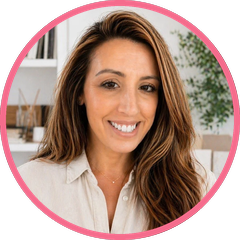
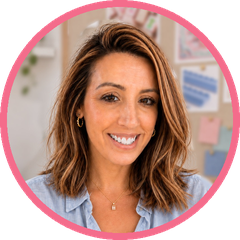
Chambray designer headshot: new site-wide headshot assets; links block points at headshot-chambray.png
Claude-Session: https://claude.ai/code/session_014aKoC1ZMdZPjGkZ9kHhnLk

diff --git a/site/livepatch/pages/about_live.html b/site/livepatch/pages/about_live.html
@@ -34,4 +34,4 @@
 .mmab .sig{font-family:'Caprasimo',Georgia,serif;font-size:1.4em;margin:6px 0 0}
 @media(max-width:700px){.mmab{padding:24px 18px}.mmab .hero{grid-template-columns:1fr;justify-items:center;text-align:center}.mmab .steps,.mmab .cards{grid-template-columns:1fr}}
 </style>
-<div class="mmab"><div class="hero"><div class="photo" style="border:4px solid #fff;box-shadow:0 0 0 3px #c2547a;overflow:hidden"><img src="https://cdn.jsdelivr.net/gh/tiffanybrie/mahjmatchmaker-data@ae30aa8f56dc8d4d827baec760da85ac1f326ac6/assets/links/headshot.png" alt="Tiffany, the designer behind Mahj Matchmaker" style="width:100%;height:100%;object-fit:cover;border-radius:50%;display:block"></div><div><h1>Hi, I&rsquo;m Tiffany.</h1><p class="dek">Designer, creative entrepreneur, and the eye behind Mahj Matchmaker.</p></div></div><section><p>I&rsquo;ve always been drawn to beautiful things. I notice colors, patterns, textures, and the little details—and I love figuring out how they work together. That&rsquo;s been a common thread through years of designing products, building creative businesses, and making my home feel like me.</p><p>So when I started shopping for my first mahjong set, I did what any perfectly reasonable designer would do: I built myself a template to compare all the possibilities.</p><p>Mahjong is an investment, and I wanted to love my whole setup, right down to the tile bag, tote, and shufflers. There was so much beauty to explore, but looking at products on separate websites wasn&rsquo;t helping me decide. I needed to see everything together.</p></section><section><h2>Down the mahj rabbit hole</h2><p>I started swapping tiles, mats, and racks into digital mock-ups, exploring different combinations until I could figure out what felt the most me.</p><p>As it turns out, I&rsquo;m not a one-size-fits-all tile-and-mat girl. I keep my sets out in my home, and just as my home gets seasonal refreshes, so does my mahjong setup. Different colors and styles appeal to me at different times of year. Apparently, even my mahjong table likes a change of clothes.</p></section><section><h2>I&rsquo;ve learned to follow the creative rabbit holes.</h2><p>I&rsquo;ve followed a lot of ideas into places I couldn&rsquo;t have predicted. Over the years, those ideas have become products, brands, and businesses. I&rsquo;ve learned that when the creative juices start flowing, sometimes the best thing I can do is get out of their way and see where they take me.</p><p>Mahj Matchmaker is one chapter in a much longer creative story. If you&rsquo;re curious about the other things my husband, Jeff, and I have built together, you can read <a href="https://emeryandoak.com/" target="_blank" rel="noopener">our story at Emery &amp; Oak</a>.</p><p>My mahjong journey started with that same curiosity—and a shopping project that apparently had bigger plans.</p></section><section><h2>From a Facebook group to a growing match library</h2><p>While browsing mahjong Facebook groups, I noticed how many people were asking the same questions I&rsquo;d been asking myself: "What mat goes with these tiles?" "Which racks would you choose?"</p><p>By then, I&rsquo;d spent so much time exploring collections that I could often remember which mats had the colors someone was looking for. My designer brain had been quietly filing it all away.</p><p>I began sharing mock-ups and helping people compare options. Then I started my own Facebook group, Mahj Matchmaker, and uploaded my combinations into albums organized by tile set. It gave people a place to browse the possibilities without piecing them together from hundreds of comments.</p><p>That group became the first home of my match library. It still exists today, along with those original albums and a community where players share their tables, ask questions, and help each other find what they&rsquo;re looking for.</p><p>And, true to form, I kept creating.</p><p>Eventually, the library needed more room to grow. That brought Mahj Matchmaker here: a website with an expanding collection of curated matches, more ways to explore them, and a home for the ideas that keep coming.</p><p>I didn&rsquo;t set out to build all of this when I started shopping for my first set. But I&rsquo;ve been on enough creative journeys to recognize when an idea is worth following.</p></section><section><h2>Sometimes you need to see it to know.</h2><p>My curated match library is for those of us who crave a visual moodboard before making a decision. Whether you&rsquo;re choosing your first set, finding a mat for tiles you already own, or dreaming up a seasonal refresh, I&rsquo;m here to help you explore the possibilities and narrow things down.</p><p>The goal is to find a combination you love—one that feels like you.</p><p>Because when we see it, THEN we know.</p><p>Happy matching!</p><p class="sig">Tiffany</p><div class="btns"><a class="btn" href="/mahjong-tile-matches">Browse My Mahjong Matches</a><a class="btn alt" href="https://www.facebook.com/groups/mahjmatchmaker" target="_blank" rel="noopener">Join the Community</a></div></section></div>
+<div class="mmab"><div class="hero"><div class="photo" style="border:4px solid #fff;box-shadow:0 0 0 3px #c2547a;overflow:hidden"><img src="HEADSHOT_URL" alt="Tiffany, the designer behind Mahj Matchmaker" style="width:100%;height:100%;object-fit:cover;border-radius:50%;display:block"></div><div><h1>Hi, I&rsquo;m Tiffany.</h1><p class="dek">Designer, creative entrepreneur, and the eye behind Mahj Matchmaker.</p></div></div><section><p>I&rsquo;ve always been drawn to beautiful things. I notice colors, patterns, textures, and the little details—and I love figuring out how they work together. That&rsquo;s been a common thread through years of designing products, building creative businesses, and making my home feel like me.</p><p>So when I started shopping for my first mahjong set, I did what any perfectly reasonable designer would do: I built myself a template to compare all the possibilities.</p><p>Mahjong is an investment, and I wanted to love my whole setup, right down to the tile bag, tote, and shufflers. There was so much beauty to explore, but looking at products on separate websites wasn&rsquo;t helping me decide. I needed to see everything together.</p></section><section><h2>Down the mahj rabbit hole</h2><p>I started swapping tiles, mats, and racks into digital mock-ups, exploring different combinations until I could figure out what felt the most me.</p><p>As it turns out, I&rsquo;m not a one-size-fits-all tile-and-mat girl. I keep my sets out in my home, and just as my home gets seasonal refreshes, so does my mahjong setup. Different colors and styles appeal to me at different times of year. Apparently, even my mahjong table likes a change of clothes.</p></section><section><h2>I&rsquo;ve learned to follow the creative rabbit holes.</h2><p>I&rsquo;ve followed a lot of ideas into places I couldn&rsquo;t have predicted. Over the years, those ideas have become products, brands, and businesses. I&rsquo;ve learned that when the creative juices start flowing, sometimes the best thing I can do is get out of their way and see where they take me.</p><p>Mahj Matchmaker is one chapter in a much longer creative story. If you&rsquo;re curious about the other things my husband, Jeff, and I have built together, you can read <a href="https://emeryandoak.com/" target="_blank" rel="noopener">our story at Emery &amp; Oak</a>.</p><p>My mahjong journey started with that same curiosity—and a shopping project that apparently had bigger plans.</p></section><section><h2>From a Facebook group to a growing match library</h2><p>While browsing mahjong Facebook groups, I noticed how many people were asking the same questions I&rsquo;d been asking myself: "What mat goes with these tiles?" "Which racks would you choose?"</p><p>By then, I&rsquo;d spent so much time exploring collections that I could often remember which mats had the colors someone was looking for. My designer brain had been quietly filing it all away.</p><p>I began sharing mock-ups and helping people compare options. Then I started my own Facebook group, Mahj Matchmaker, and uploaded my combinations into albums organized by tile set. It gave people a place to browse the possibilities without piecing them together from hundreds of comments.</p><p>That group became the first home of my match library. It still exists today, along with those original albums and a community where players share their tables, ask questions, and help each other find what they&rsquo;re looking for.</p><p>And, true to form, I kept creating.</p><p>Eventually, the library needed more room to grow. That brought Mahj Matchmaker here: a website with an expanding collection of curated matches, more ways to explore them, and a home for the ideas that keep coming.</p><p>I didn&rsquo;t set out to build all of this when I started shopping for my first set. But I&rsquo;ve been on enough creative journeys to recognize when an idea is worth following.</p></section><section><h2>Sometimes you need to see it to know.</h2><p>My curated match library is for those of us who crave a visual moodboard before making a decision. Whether you&rsquo;re choosing your first set, finding a mat for tiles you already own, or dreaming up a seasonal refresh, I&rsquo;m here to help you explore the possibilities and narrow things down.</p><p>The goal is to find a combination you love—one that feels like you.</p><p>Because when we see it, THEN we know.</p><p>Happy matching!</p><p class="sig">Tiffany</p><div class="btns"><a class="btn" href="/mahjong-tile-matches">Browse My Mahjong Matches</a><a class="btn alt" href="https://www.facebook.com/groups/mahjmatchmaker" target="_blank" rel="noopener">Join the Community</a></div></section></div>

diff --git a/scripts/covers/holiday/links_squarespace_code_block.html b/scripts/covers/holiday/links_squarespace_code_block.html
@@ -41,7 +41,7 @@
 .mml .ft{text-align:center;margin-top:22px;font-size:12px;opacity:.75}.mml .ft img{width:26px;vertical-align:middle}
 </style>
 <div class="mml">
-<div class="hd"><img class="hs" src="https://cdn.jsdelivr.net/gh/tiffanybrie/mahjmatchmaker-data@partner-catalogs-sqsp/assets/links/headshot.png" alt="Tiffany of Mahj Matchmaker"><img class="lg" src="https://cdn.jsdelivr.net/gh/tiffanybrie/mahjmatchmaker-data@partner-catalogs-sqsp/assets/links/logo.png" alt="Mahj Matchmaker"><div class="tag">Hooking up tiles, mats &amp; racks 💕</div><img class="omm" src="https://cdn.jsdelivr.net/gh/tiffanybrie/mahjmatchmaker-data@partner-catalogs-sqsp/assets/links/omm.png" alt="Oh My Mahjong certified instructor"></div>
+<div class="hd"><img class="hs" src="https://cdn.jsdelivr.net/gh/tiffanybrie/mahjmatchmaker-data@partner-catalogs-sqsp/assets/links/headshot-chambray.png" alt="Tiffany of Mahj Matchmaker"><img class="lg" src="https://cdn.jsdelivr.net/gh/tiffanybrie/mahjmatchmaker-data@partner-catalogs-sqsp/assets/links/logo.png" alt="Mahj Matchmaker"><div class="tag">Hooking up tiles, mats &amp; racks 💕</div><img class="omm" src="https://cdn.jsdelivr.net/gh/tiffanybrie/mahjmatchmaker-data@partner-catalogs-sqsp/assets/links/omm.png" alt="Oh My Mahjong certified instructor"></div>
 <!-- FIND YOUR MATCH: first and biggest link (Tiffany, Oct 15 6:58pm).
      NOTE: /find-your-match is the PLANNED page. It goes live on launch day (Mahj Matchmaker 2.0, doc 54);
      until then this link would 404, so the page and this link launch together. -->

diff --git a/scripts/covers/holiday/links_build.py b/scripts/covers/holiday/links_build.py
@@ -64,7 +64,7 @@ def build(img,tgt):
 .mml .ft{{text-align:center;margin-top:22px;font-size:12px;opacity:.75}}.mml .ft img{{width:26px;vertical-align:middle}}
 </style>
 <div class="mml">
-<div class="hd"><img class="hs" src="{img('headshot.png')}" alt="Tiffany of Mahj Matchmaker"><img class="lg" src="{img('logo.png')}" alt="Mahj Matchmaker"><div class="tag">Hooking up tiles, mats &amp; racks 💕</div><img class="omm" src="{img('omm.png')}" alt="Oh My Mahjong certified instructor"></div>
+<div class="hd"><img class="hs" src="{img('headshot-chambray.png')}" alt="Tiffany of Mahj Matchmaker"><img class="lg" src="{img('logo.png')}" alt="Mahj Matchmaker"><div class="tag">Hooking up tiles, mats &amp; racks 💕</div><img class="omm" src="{img('omm.png')}" alt="Oh My Mahjong certified instructor"></div>
 <!-- FIND YOUR MATCH: first and biggest link (Tiffany, Oct 15 6:58pm).
      NOTE: /find-your-match is the PLANNED page. It goes live on launch day (Mahj Matchmaker 2.0, doc 54);
      until then this link would 404, so the page and this link launch together. -->
